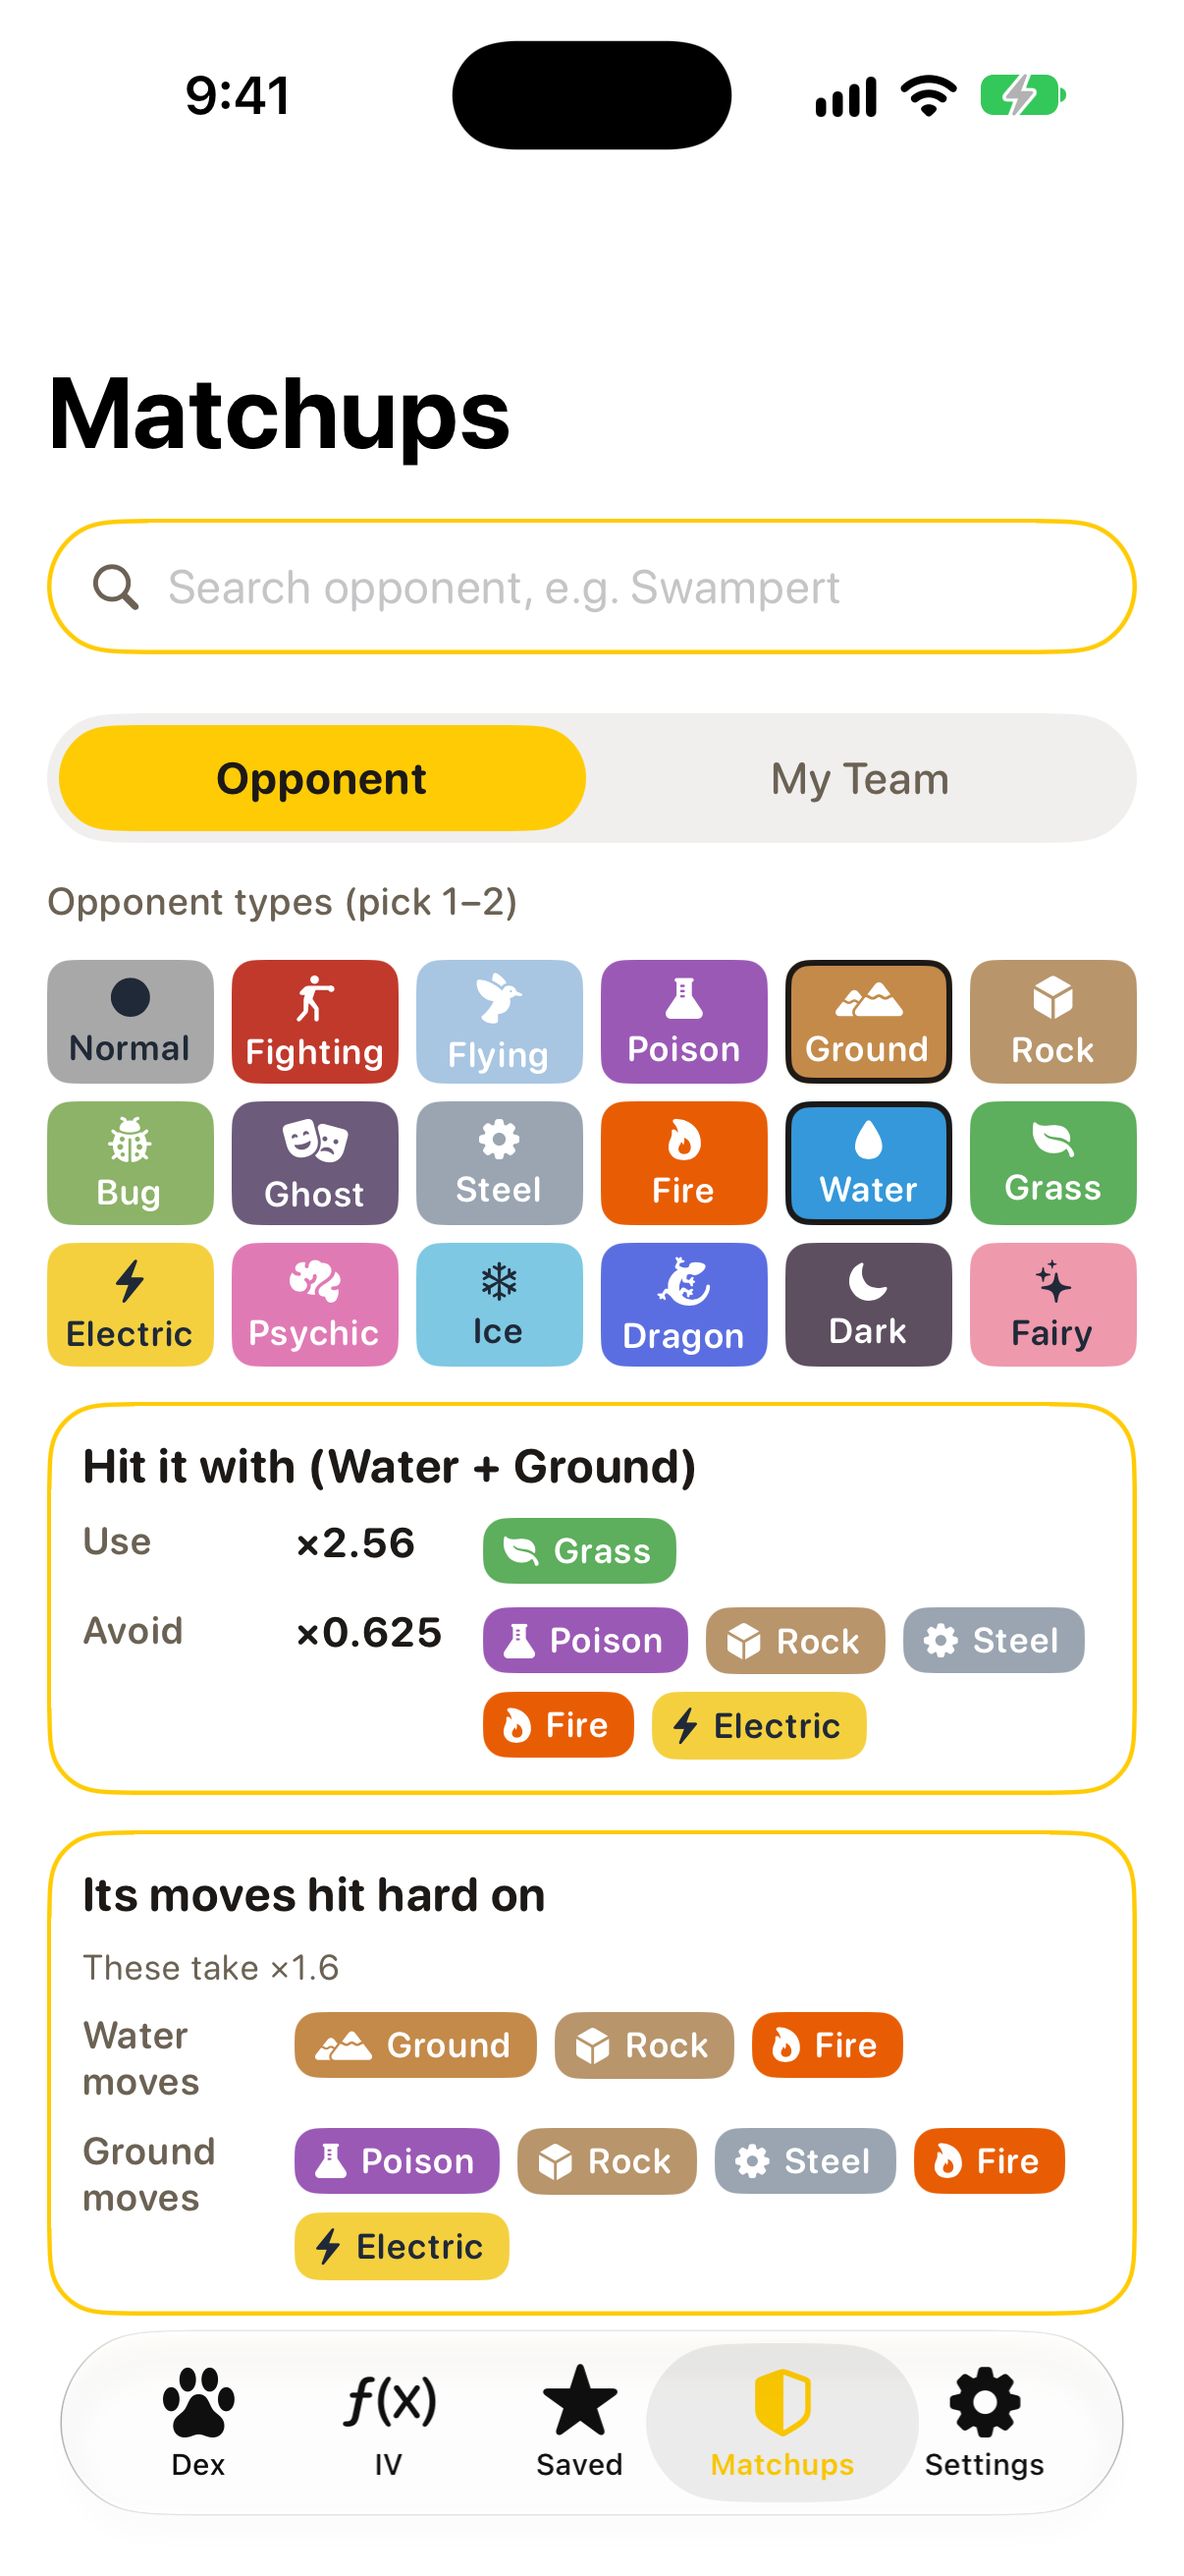
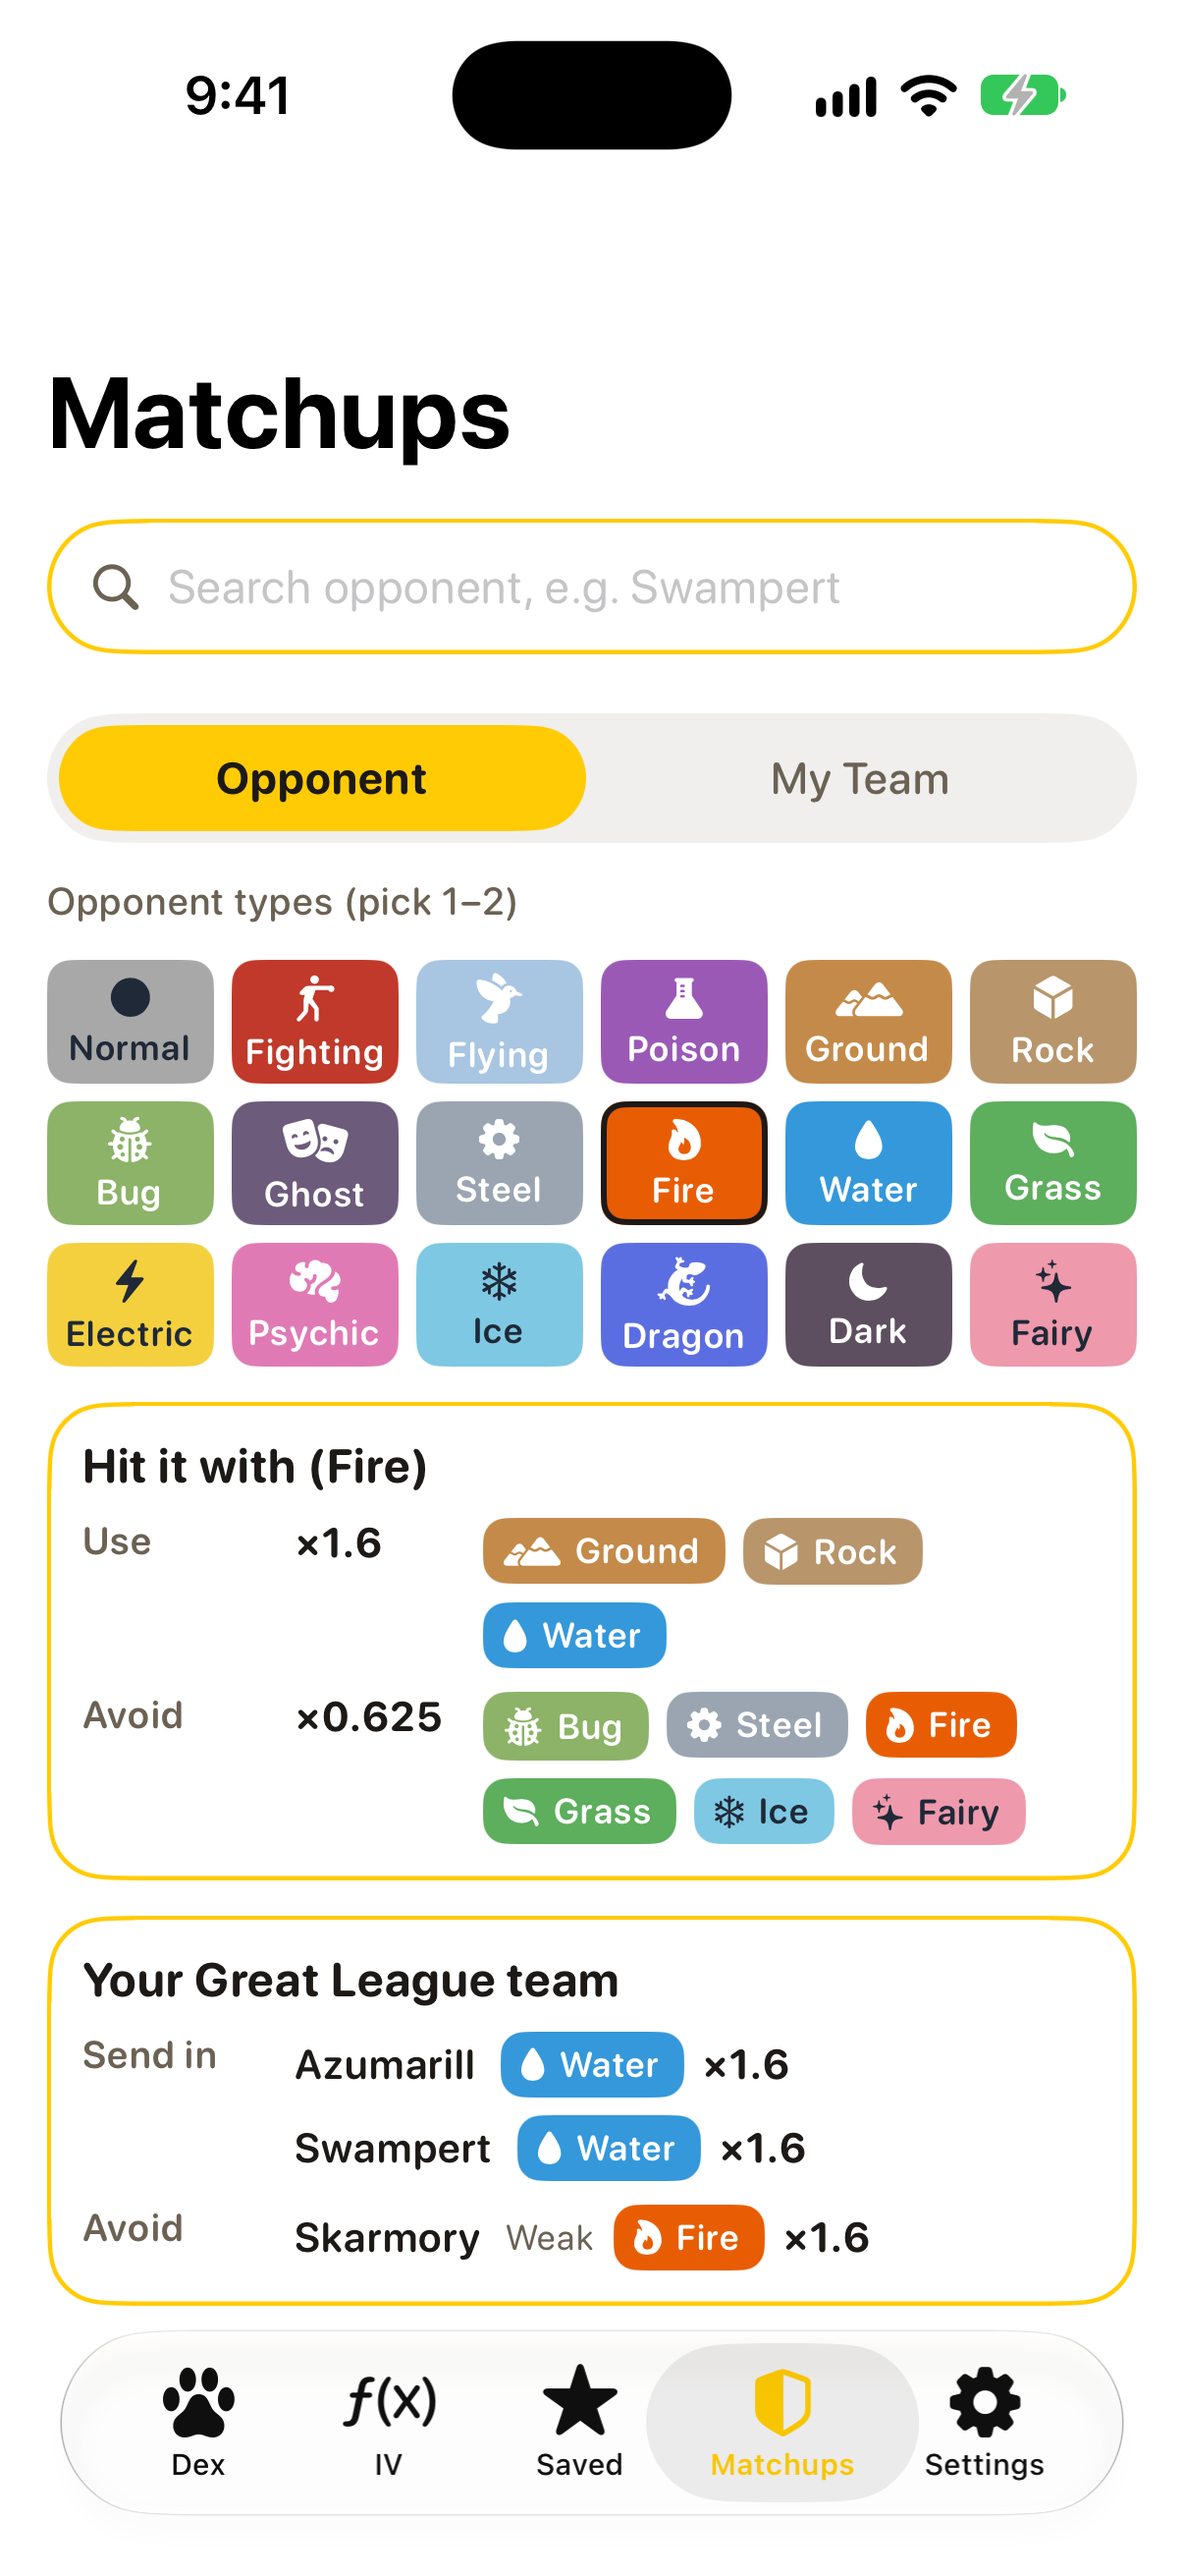
官網配合 1.3.2：相剋查對手改為隊伍出戰建議

diff --git a/index.html b/index.html
@@ -130,7 +130,7 @@
         <li><strong>訓練師等級</strong>：可選，在 IV 頁左上角或「設定」分頁調整。用來對齊摘要上的等級範圍，不進入 CP 公式。沒設定時，同一組星塵仍可能對應多個等級。</li>
         <li><strong>結果</strong>：百分比環、攻擊／防禦／體力 IV、等級滑桿與下一步建議。可開啟好夥伴加成，看該等級加成後的 CP、HP。範圍很寬時圓環會顯示「?」。</li>
         <li><strong>PvP</strong>：結果頁列出小小盃、超級、高級、大師聯盟的名次（Rank）與佔 Rank 1 的百分比，進化鏈每一階都算。點一組 IV 可看最佳等級、CP、實際攻擊，以及養到該等級需要的星塵、糖果與 XL 糖果，也能一鍵複製改名字串。收藏牌卡會標出最佳名次。</li>
-        <li><strong>相剋</strong>：對戰時查屬性。「查對手」選 1–2 個屬性或搜尋名字，看該用什麼打、別用什麼、牠的招式剋誰；「我的隊伍」每個聯盟存 3 隻，一眼看到每隻的弱點與抗性。屬性都附上圖示，水、冰、龍這類相似屬性也好分辨。</li>
+        <li><strong>相剋</strong>：對戰時查屬性。「查對手」選 1–2 個屬性或搜尋名字，看該用什麼打、別用什麼，以及隊伍裡該派誰、別派誰；「我的隊伍」每個聯盟存 3 隻，一眼看到每隻的弱點與抗性。屬性都附上圖示，水、冰、龍這類相似屬性也好分辨。</li>
         <li><strong>設定</strong>：PvP 等級上限（40／50／51）、IV 保底、預設聯盟、改名格式與訓練師等級。</li>
         <li><strong>本機資料</strong>：歷史只存辨識結果與相簿識別碼，<strong>不存截圖檔</strong>。收藏只存你點下的那一組 IV。對戰隊伍只存種類與招式選擇。</li>
         <li><strong>廣告</strong>：IV 頁在「幫精靈評價」下方可能出現原生廣告，結果頁底部可能有橫幅，相剋分頁最下方可能有一張原生廣告。圖鑑與收藏第一層、設定沒有廣告。第一次會問相簿權限；廣告可能再問追蹤許可（ATT），拒絕後改為非個人化。細節見<a href="privacy.html">隱私權</a>。</li>
@@ -228,11 +228,11 @@
       </figure>
 
       <h3 id="zh-matchup">6. 相剋</h3>
-      <p>點底部「相剋」。「查對手」選對手的 1–2 個屬性，或在上方搜尋名字（也可打英文名或編號），下方會列出該用什麼屬性打（倍率越高越好）、別用哪些屬性，以及牠自己屬性的招式剋誰。「我的隊伍」每個聯盟存一組 3 隻，卡片列出每隻的弱點、抗性與招式屬性；可在收藏長按、或結果頁 PvP 區塊加入。查對手時若有隊員會被剋，也會一起提示。</p>
+      <p>點底部「相剋」。「查對手」選對手的 1–2 個屬性，或在上方搜尋名字（也可打英文名或編號），下方會列出該用什麼屬性打（倍率越高越好）、別用哪些屬性。「我的隊伍」每個聯盟存一組 3 隻，卡片列出每隻的弱點、抗性與招式屬性；可在收藏長按、或結果頁 PvP 區塊加入。查對手時，隊伍卡會告訴你該派哪隻（用這隻打）、別派哪隻（別用），並標出被剋或招式被抵抗；會看隊員設定的招式，沒設招式就用隊員自身屬性。</p>
       <div class="manual-shots-row">
         <figure class="manual-shot">
-          <img src="manual/manual-matchup-opponent-zh.png" width="402" height="874" alt="相剋分頁：查對手，選了水與地面">
-          <figcaption>查對手：水＋地面要用草打，別用電、火、毒、岩石、鋼。</figcaption>
+          <img src="manual/manual-matchup-opponent-zh.png" width="402" height="874" alt="相剋分頁：查對手，選了火">
+          <figcaption>查對手：火要用地面、岩石、水打；超級聯盟隊伍派瑪力露麗或巨沼怪，盔甲鳥會被剋。</figcaption>
         </figure>
         <figure class="manual-shot">
           <img src="manual/manual-matchup-team-zh.png" width="402" height="874" alt="相剋分頁：我的隊伍">
@@ -266,7 +266,7 @@
         <li><strong>Trainer level</strong>: Optional, set on the IV tab or in Settings. It lines up the level range on the summary and is not part of the CP formula. With it unset, one stardust cost can still match more than one level.</li>
         <li><strong>Results</strong>: A percent ring, attack / defense / HP IVs, a level slider, and a next step. Buddy boost shows that level’s boosted CP and HP. A wide range shows “?” in the ring.</li>
         <li><strong>PvP</strong>: Results list the rank and percent of rank 1 in Little Cup, Great, Ultra, and Master League for every evolution stage. Tap an IV set to see its best level, CP, attack, and the Stardust, Candy, and XL Candy needed to get there, and copy a nickname in one tap. Saved cards show the best rank.</li>
-        <li><strong>Matchups</strong>: Check types during a battle. In Opponent, pick one or two types or search a name to see what hits it hard, what to avoid, and what its own moves hit. In My Team, save three members per league and see each one’s weaknesses and resistances at a glance. Every type has an icon, so similar types such as Water, Ice, and Dragon are easy to tell apart.</li>
+        <li><strong>Matchups</strong>: Check types during a battle. In Opponent, pick one or two types or search a name to see what hits it hard, what to avoid, and which team member to send in or keep out. In My Team, save three members per league and see each one’s weaknesses and resistances at a glance. Every type has an icon, so similar types such as Water, Ice, and Dragon are easy to tell apart.</li>
         <li><strong>Settings</strong>: PvP level cap (40 / 50 / 51), IV floor, default league, nickname format, and trainer level.</li>
         <li><strong>On this device</strong>: History stores the reading and a photo identifier, <strong>not the image file</strong>. Saved stores only the IV set you starred. Battle teams store only the species and move choices.</li>
         <li><strong>Ads</strong>: The IV tab may show a native ad under Appraise, and the results screen may show a banner, and the bottom of the Matchups tab may show one native ad. The Dex list, Dex detail, Saved list, and Settings do not. The app asks for photo access, and ads may ask for tracking permission (ATT); declining uses non-personalized ads. Details are on the <a href="privacy.html">Privacy</a> page.</li>
@@ -364,11 +364,11 @@
       </figure>
 
       <h3 id="en-matchup">6. Matchups</h3>
-      <p>Open the Matchups tab. In Opponent, pick one or two of the opponent’s types, or search a name at the top (English name or number also works). Below you see which types hit it hard (higher is better), which to avoid, and what moves of its own types hit. In My Team, save a team of three for each league; each card lists weaknesses, resistances, and move types. Add members from a saved entry’s long-press menu or the PvP section of a result. When an opponent hits one of your members hard, the lookup says so.</p>
+      <p>Open the Matchups tab. In Opponent, pick one or two of the opponent’s types, or search a name at the top (English name or number also works). Below you see which types hit it hard (higher is better) and which to avoid. In My Team, save a team of three for each league; each card lists weaknesses, resistances, and move types. Add members from a saved entry’s long-press menu or the PvP section of a result. The lookup also tells you which team member to send in and which to avoid, and why (weak to it, or moves resisted). It uses the moves you set for each member, or the member’s own types if none are set.</p>
       <div class="manual-shots-row">
         <figure class="manual-shot">
-          <img src="manual/manual-matchup-opponent-en.png" width="402" height="874" alt="Matchups tab: Opponent with Water and Ground picked">
-          <figcaption>Opponent: hit Water + Ground with Grass; avoid Electric, Fire, Poison, Rock, and Steel.</figcaption>
+          <img src="manual/manual-matchup-opponent-en.png" width="402" height="874" alt="Matchups tab: Opponent with Fire picked">
+          <figcaption>Opponent: hit Fire with Ground, Rock, or Water; send in Azumarill or Swampert, and keep Skarmory out.</figcaption>
         </figure>
         <figure class="manual-shot">
           <img src="manual/manual-matchup-team-en.png" width="402" height="874" alt="Matchups tab: My Team">
